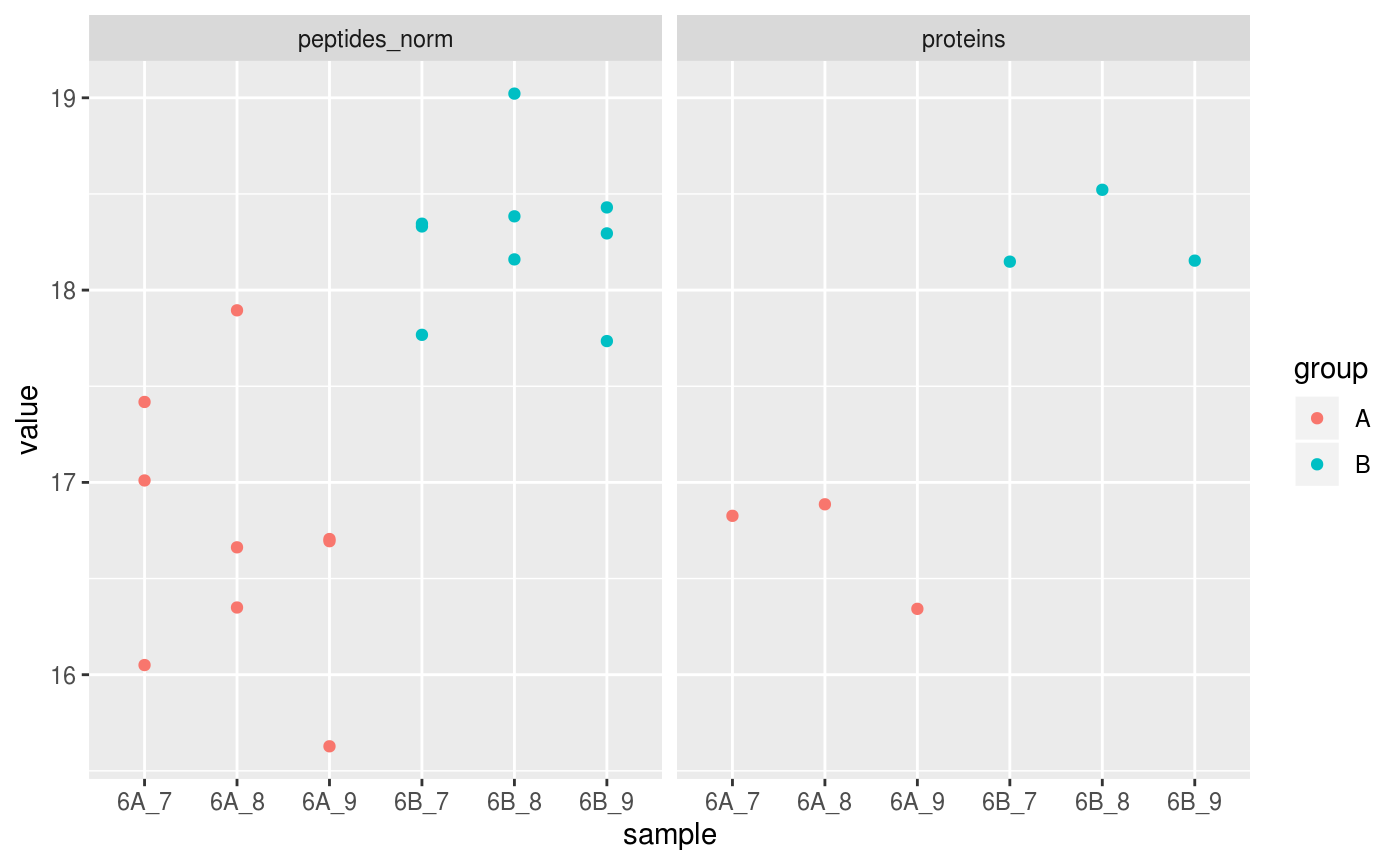
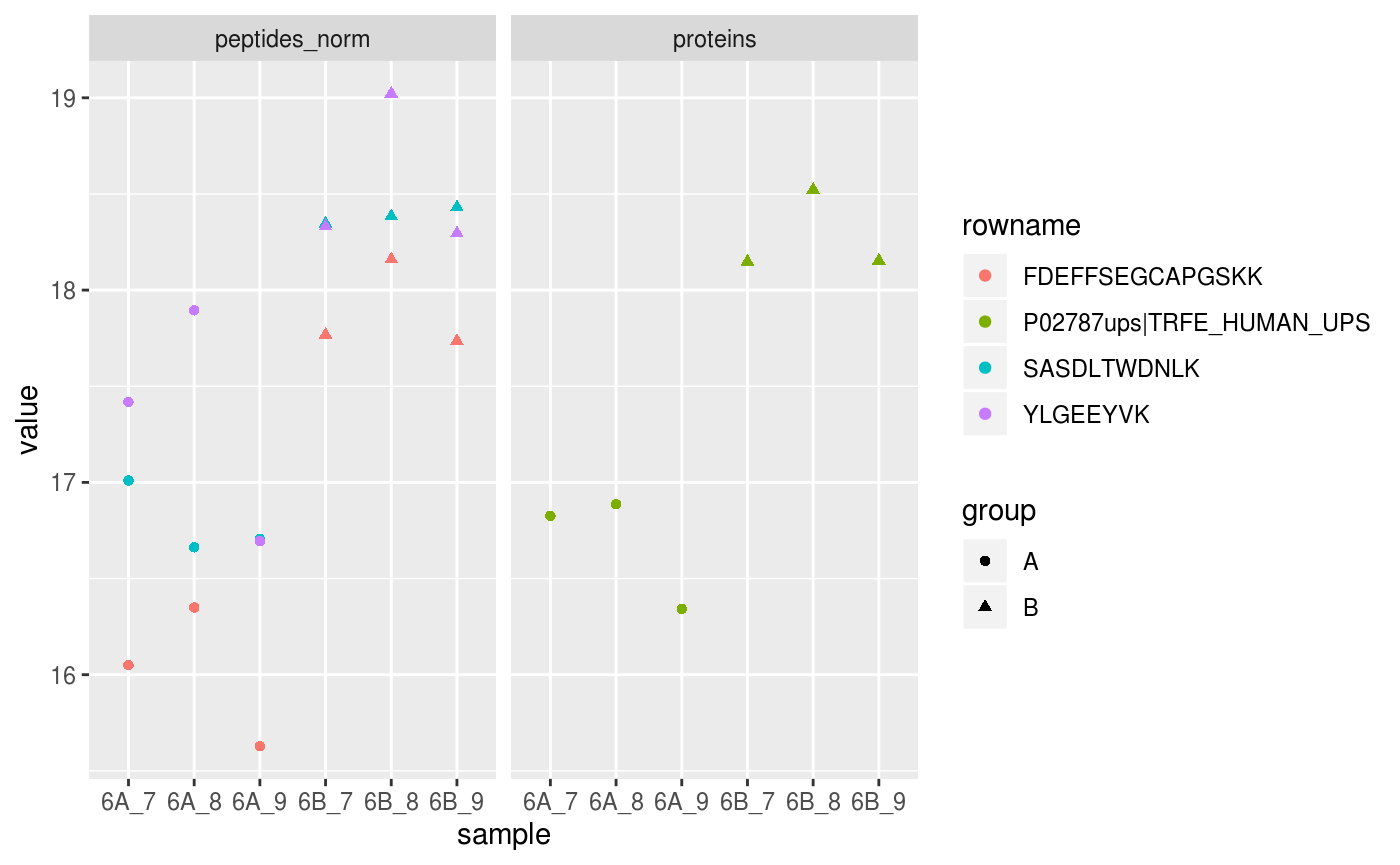
Deploy rformassspectrometry/Features to github.com/rformassspectrometry/Features.git:gh-pages

diff --git a/articles/Processing.html b/articles/Processing.html
@@ -108,13 +108,10 @@ document.addEventListener("DOMContentLoaded", function() {
     if (links[i].hostname != window.location.hostname)
       links[i].target = '_blank';
 });
-</script><div id="introduction" class="section level1">
+</script><div id="reading-data-as-features" class="section level1">
 <h1 class="hasAnchor">
-<a href="#introduction" class="anchor"></a>Introduction</h1>
-<div id="reading-data-as-features" class="section level2">
-<h2 class="hasAnchor">
 <a href="#reading-data-as-features" class="anchor"></a>Reading data as <code>Features</code>
-</h2>
+</h1>
 <p>We are going to use a subset of the CPTAC study 6 containing conditions A and B <span class="citation">(Paulovich et al. 2010)</span>. The peptide-level data, as processed by MaxQuant <span class="citation">(Cox and Mann 2008)</span> is available in the <code>msdata</code> package:</p>
 <div class="sourceCode" id="cb1"><pre class="sourceCode r"><code class="sourceCode r"><a class="sourceLine" id="cb1-1" data-line-number="1"><span class="kw"><a href="https://rdrr.io/r/base/basename.html">basename</a></span>(f &lt;-<span class="st"> </span>msdata<span class="op">::</span><span class="kw"><a href="https://rdrr.io/pkg/msdata/man/proteomics.html">quant</a></span>(<span class="dt">pattern =</span> <span class="st">"cptac"</span>, <span class="dt">full.names =</span> <span class="ot">TRUE</span>))</a></code></pre></div>
 <pre><code>## [1] "cptac_a_b_peptides.txt"</code></pre>
@@ -162,9 +159,9 @@ document.addEventListener("DOMContentLoaded", function() {
 <div class="sourceCode" id="cb7"><pre class="sourceCode r"><code class="sourceCode r"><a class="sourceLine" id="cb7-1" data-line-number="1"><span class="kw"><a href="https://rdrr.io/r/base/library.html">library</a></span>(<span class="st">"Features"</span>)</a>
 <a class="sourceLine" id="cb7-2" data-line-number="2">cptac &lt;-<span class="st"> </span><span class="kw"><a href="../reference/readFeatures.html">readFeatures</a></span>(f, <span class="dt">ecol =</span> i, <span class="dt">sep =</span> <span class="st">"</span><span class="ch">\t</span><span class="st">"</span>, <span class="dt">name =</span> <span class="st">"peptides"</span>, <span class="dt">fnames =</span> <span class="st">"Sequence"</span>)</a></code></pre></div>
 </div>
-<div id="encoding-the-experimental-design" class="section level2">
-<h2 class="hasAnchor">
-<a href="#encoding-the-experimental-design" class="anchor"></a>Encoding the experimental design</h2>
+<div id="encoding-the-experimental-design" class="section level1">
+<h1 class="hasAnchor">
+<a href="#encoding-the-experimental-design" class="anchor"></a>Encoding the experimental design</h1>
 <p>Below we update the sample (column) annotations to encode the two groups, 6A and 6B, and the original sample numbers.</p>
 <div class="sourceCode" id="cb8"><pre class="sourceCode r"><code class="sourceCode r"><a class="sourceLine" id="cb8-1" data-line-number="1">cptac<span class="op">$</span>group &lt;-<span class="st"> </span><span class="kw"><a href="https://rdrr.io/r/base/rep.html">rep</a></span>(<span class="kw"><a href="https://rdrr.io/r/base/c.html">c</a></span>(<span class="st">"6A"</span>, <span class="st">"6B"</span>), <span class="dt">each =</span> <span class="dv">3</span>)</a>
 <a class="sourceLine" id="cb8-2" data-line-number="2">cptac<span class="op">$</span>sample &lt;-<span class="st"> </span><span class="kw"><a href="https://rdrr.io/r/base/rep.html">rep</a></span>(<span class="dv">7</span><span class="op">:</span><span class="dv">9</span>, <span class="dv">2</span>)</a>
@@ -179,9 +176,9 @@ document.addEventListener("DOMContentLoaded", function() {
 ## Intensity.6B_8          6B         8
 ## Intensity.6B_9          6B         9</code></pre>
 </div>
-<div id="filtering-out-contaminants-and-reverse-hits" class="section level2">
-<h2 class="hasAnchor">
-<a href="#filtering-out-contaminants-and-reverse-hits" class="anchor"></a>Filtering out contaminants and reverse hits</h2>
+<div id="filtering-out-contaminants-and-reverse-hits" class="section level1">
+<h1 class="hasAnchor">
+<a href="#filtering-out-contaminants-and-reverse-hits" class="anchor"></a>Filtering out contaminants and reverse hits</h1>
 <div class="sourceCode" id="cb10"><pre class="sourceCode r"><code class="sourceCode r"><a class="sourceLine" id="cb10-1" data-line-number="1"><span class="kw"><a href="../reference/Features-filtering.html">filterFeatures</a></span>(cptac, <span class="op">~</span><span class="st"> </span>Reverse <span class="op">==</span><span class="st"> ""</span>)</a></code></pre></div>
 <pre><code>## A instance of class Features containing
 ##  [1] peptides: SummarizedExperiment with 11436 rows and 6 columns</code></pre>
@@ -193,9 +190,9 @@ document.addEventListener("DOMContentLoaded", function() {
 <a class="sourceLine" id="cb14-3" data-line-number="3"><span class="st">    </span><span class="kw"><a href="../reference/Features-filtering.html">filterFeatures</a></span>(<span class="op">~</span><span class="st"> </span>Reverse <span class="op">==</span><span class="st"> ""</span>) <span class="op">%&gt;%</span></a>
 <a class="sourceLine" id="cb14-4" data-line-number="4"><span class="st">    </span><span class="kw"><a href="../reference/Features-filtering.html">filterFeatures</a></span>(<span class="op">~</span><span class="st"> </span>Potential.contaminant <span class="op">==</span><span class="st"> ""</span>)</a></code></pre></div>
 </div>
-<div id="removing-up-unneeded-feature-variables" class="section level2">
-<h2 class="hasAnchor">
-<a href="#removing-up-unneeded-feature-variables" class="anchor"></a>Removing up unneeded feature variables</h2>
+<div id="removing-up-unneeded-feature-variables" class="section level1">
+<h1 class="hasAnchor">
+<a href="#removing-up-unneeded-feature-variables" class="anchor"></a>Removing up unneeded feature variables</h1>
 <p>The spreadsheet that was read above contained numerous variables that are returned by MaxQuant, but not necessarily necessary in the frame of a downstream statistical analysis.</p>
 <div class="sourceCode" id="cb15"><pre class="sourceCode r"><code class="sourceCode r"><a class="sourceLine" id="cb15-1" data-line-number="1"><span class="kw"><a href="../reference/Features-class.html">rowDataNames</a></span>(cptac)</a></code></pre></div>
 <pre><code>## CharacterList of length 1
@@ -207,9 +204,9 @@ document.addEventListener("DOMContentLoaded", function() {
 <pre><code>## CharacterList of length 1
 ## [["peptides"]] Sequence Proteins Leading.razor.protein</code></pre>
 </div>
-<div id="managing-missing-values" class="section level2">
-<h2 class="hasAnchor">
-<a href="#managing-missing-values" class="anchor"></a>Managing missing values</h2>
+<div id="managing-missing-values" class="section level1">
+<h1 class="hasAnchor">
+<a href="#managing-missing-values" class="anchor"></a>Managing missing values</h1>
 <p>Missing values can be very numerous in certain proteomics experiments and need to be dealt with carefully. The first step is to assess their presence across samples and features. But before being able to do so, we need to replace 0 by <code>NA</code>, given that MaxQuant encodes missing data with a 0 using the <code>zeroIsNA</code> function.</p>
 <div class="sourceCode" id="cb19"><pre class="sourceCode r"><code class="sourceCode r"><a class="sourceLine" id="cb19-1" data-line-number="1">cptac &lt;-<span class="st"> </span><span class="kw"><a href="../reference/Features-missing-data.html">zeroIsNA</a></span>(cptac)</a>
 <a class="sourceLine" id="cb19-2" data-line-number="2"><span class="kw"><a href="../reference/Features-missing-data.html">nNA</a></span>(cptac)</a></code></pre></div>
@@ -239,9 +236,9 @@ document.addEventListener("DOMContentLoaded", function() {
 ##  [1] peptides: SummarizedExperiment with 4051 rows and 6 columns</code></pre>
 <p>I we wanted to keep peptides that have up to 90% of missing values, corresponsing in this case to those that have only one value (i.e 5/6 percent of missing values), we could have set <code>pNA</code> to 0.9.</p>
 </div>
-<div id="data-transformation" class="section level2">
-<h2 class="hasAnchor">
-<a href="#data-transformation" class="anchor"></a>Data transformation</h2>
+<div id="data-transformation" class="section level1">
+<h1 class="hasAnchor">
+<a href="#data-transformation" class="anchor"></a>Data transformation</h1>
 <p>When analysing continuous data using parametric methods (such as t-test or linear models), it is often necessary to log-transform the data. The figure below (left) show that how our data is mainly composed of small values with a long tail of larger ones, which is a typical pattern of quantitative omics data.</p>
 <p>Below, we use the <code>logTransform</code> function to log2-transform our data. This time, instead of overwriting the peptides assay, we are going to create a new one to contain the log2-transformed data.</p>
 <div class="sourceCode" id="cb23"><pre class="sourceCode r"><code class="sourceCode r"><a class="sourceLine" id="cb23-1" data-line-number="1">cptac &lt;-<span class="st"> </span><span class="kw"><a href="../reference/Features-class.html">addAssay</a></span>(cptac,</a>
@@ -260,9 +257,9 @@ Quantitative data in its original scale (left) and log2-transformed (right).
 </p>
 </div>
 </div>
-<div id="normalisation" class="section level2">
-<h2 class="hasAnchor">
-<a href="#normalisation" class="anchor"></a>Normalisation</h2>
+<div id="normalisation" class="section level1">
+<h1 class="hasAnchor">
+<a href="#normalisation" class="anchor"></a>Normalisation</h1>
 <p>Assays in <code>Features</code> objects can be normalised with the <code>normalize</code> function. The type of normalisation is defined by the <code>method</code> argument; below, we use quantiles normalisation, store the normalised data into a new experiment, and visualise the resulting data.</p>
 <div class="sourceCode" id="cb26"><pre class="sourceCode r"><code class="sourceCode r"><a class="sourceLine" id="cb26-1" data-line-number="1">cptac &lt;-<span class="st"> </span><span class="kw"><a href="../reference/Features-class.html">addAssay</a></span>(cptac,</a>
 <a class="sourceLine" id="cb26-2" data-line-number="2">                  <span class="kw"><a href="../reference/Features-processing.html">normalize</a></span>(cptac[[<span class="st">"peptides_log"</span>]], <span class="dt">method =</span> <span class="st">"quantiles"</span>),</a>
@@ -281,9 +278,9 @@ Distribution of log2 peptide intensities before (left) and after (right) quantil
 </p>
 </div>
 </div>
-<div id="feature-aggregation" class="section level2">
-<h2 class="hasAnchor">
-<a href="#feature-aggregation" class="anchor"></a>Feature aggregation</h2>
+<div id="feature-aggregation" class="section level1">
+<h1 class="hasAnchor">
+<a href="#feature-aggregation" class="anchor"></a>Feature aggregation</h1>
 <p>At this stage, it is possible to directly use the peptide-level intensities to perform a statistical analysis <span class="citation">(Goeminne, Gevaert, and Clement 2016)</span>, or aggregate the peptide-level data into protein intensities, and perform the differential expression analysis at the protein level.</p>
 <p>To aggregate feature data, we can use the <code>aggregateFeatures</code> function that takes the following inputs:</p>
 <ul>
@@ -368,23 +365,26 @@ Distribution of log2 peptide intensities before (left) and after (right) quantil
 <a class="sourceLine" id="cb37-4" data-line-number="4"><span class="st">    </span><span class="kw"><a href="https://rdrr.io/r/base/as.data.frame.html">as.data.frame</a></span>() <span class="op">%&gt;%</span></a>
 <a class="sourceLine" id="cb37-5" data-line-number="5"><span class="st">    </span><span class="kw"><a href="https://dplyr.tidyverse.org/reference/mutate.html">mutate</a></span>(<span class="dt">group =</span> <span class="kw"><a href="https://rdrr.io/r/base/ifelse.html">ifelse</a></span>(<span class="kw"><a href="https://rdrr.io/r/base/grep.html">grepl</a></span>(<span class="st">"A"</span>, colname), <span class="st">"A"</span>, <span class="st">"B"</span>)) <span class="op">%&gt;%</span></a>
 <a class="sourceLine" id="cb37-6" data-line-number="6"><span class="st">    </span><span class="kw"><a href="https://dplyr.tidyverse.org/reference/mutate.html">mutate</a></span>(<span class="dt">sample =</span> <span class="kw"><a href="https://rdrr.io/r/base/grep.html">sub</a></span>(<span class="st">"Intensity</span><span class="ch">\\</span><span class="st">."</span>, <span class="st">""</span>, colname)) <span class="op">%&gt;%</span></a>
-<a class="sourceLine" id="cb37-7" data-line-number="7"><span class="st">    </span><span class="kw"><a href="https://ggplot2.tidyverse.org/reference/ggplot.html">ggplot</a></span>(<span class="kw"><a href="https://ggplot2.tidyverse.org/reference/aes.html">aes</a></span>(<span class="dt">x =</span> sample, <span class="dt">y =</span> value, <span class="dt">colour =</span> group)) <span class="op">+</span></a>
+<a class="sourceLine" id="cb37-7" data-line-number="7"><span class="st">    </span><span class="kw"><a href="https://ggplot2.tidyverse.org/reference/ggplot.html">ggplot</a></span>(<span class="kw"><a href="https://ggplot2.tidyverse.org/reference/aes.html">aes</a></span>(<span class="dt">x =</span> sample, <span class="dt">y =</span> value, <span class="dt">colour =</span> rowname, <span class="dt">shape =</span> group)) <span class="op">+</span></a>
 <a class="sourceLine" id="cb37-8" data-line-number="8"><span class="st">    </span><span class="kw"><a href="https://ggplot2.tidyverse.org/reference/geom_point.html">geom_point</a></span>() <span class="op">+</span></a>
 <a class="sourceLine" id="cb37-9" data-line-number="9"><span class="st">    </span><span class="kw"><a href="https://ggplot2.tidyverse.org/reference/facet_grid.html">facet_grid</a></span>(<span class="op">~</span><span class="st"> </span>assay)</a></code></pre></div>
 <pre><code>## harmonizing input:
 ##   removing 12 sampleMap rows not in names(experiments)
 ## harmonizing input:
 ##   removing 12 sampleMap rows not in names(experiments)</code></pre>
-<p><img src="Processing_files/figure-html/unnamed-chunk-16-1.png" width="700"></p>
+<div class="figure">
+<img src="Processing_files/figure-html/unnamed-chunk-16-1.png" alt="Expression intensities for the protein *P02787ups|TRFE_HUMAN_UPS* (right, green) and its peptides (left) in groups A (circles) and B (triangles)." width="700"><p class="caption">
+Expression intensities for the protein <em>P02787ups|TRFE_HUMAN_UPS</em> (right, green) and its peptides (left) in groups A (circles) and B (triangles).
+</p>
 </div>
-<div id="todo" class="section level2">
-<h2 class="hasAnchor">
-<a href="#todo" class="anchor"></a>TODO</h2>
+</div>
+<div id="todo" class="section level1">
+<h1 class="hasAnchor">
+<a href="#todo" class="anchor"></a>TODO</h1>
 <ul>
 <li>Improve on data visualisation.</li>
 <li>Section on imputation.</li>
 </ul>
-</div>
 </div>
 <div id="session-information" class="section level1 unnumbered">
 <h1 class="hasAnchor">
@@ -466,8 +466,6 @@ Distribution of log2 peptide intensities before (left) and after (right) quantil
       <h2 class="hasAnchor">
 <a href="#tocnav" class="anchor"></a>Contents</h2>
       <ul class="nav nav-pills nav-stacked">
-<li>
-<a href="#introduction">Introduction</a><ul class="nav nav-pills nav-stacked">
 <li><a href="#reading-data-as-features">Reading data as <code>Features</code></a></li>
       <li><a href="#encoding-the-experimental-design">Encoding the experimental design</a></li>
       <li><a href="#filtering-out-contaminants-and-reverse-hits">Filtering out contaminants and reverse hits</a></li>
@@ -477,8 +475,6 @@ Distribution of log2 peptide intensities before (left) and after (right) quantil
       <li><a href="#normalisation">Normalisation</a></li>
       <li><a href="#feature-aggregation">Feature aggregation</a></li>
       <li><a href="#todo">TODO</a></li>
-      </ul>
-</li>
       <li><a href="#session-information">Session information</a></li>
       <li><a href="#references">References</a></li>
       </ul>
